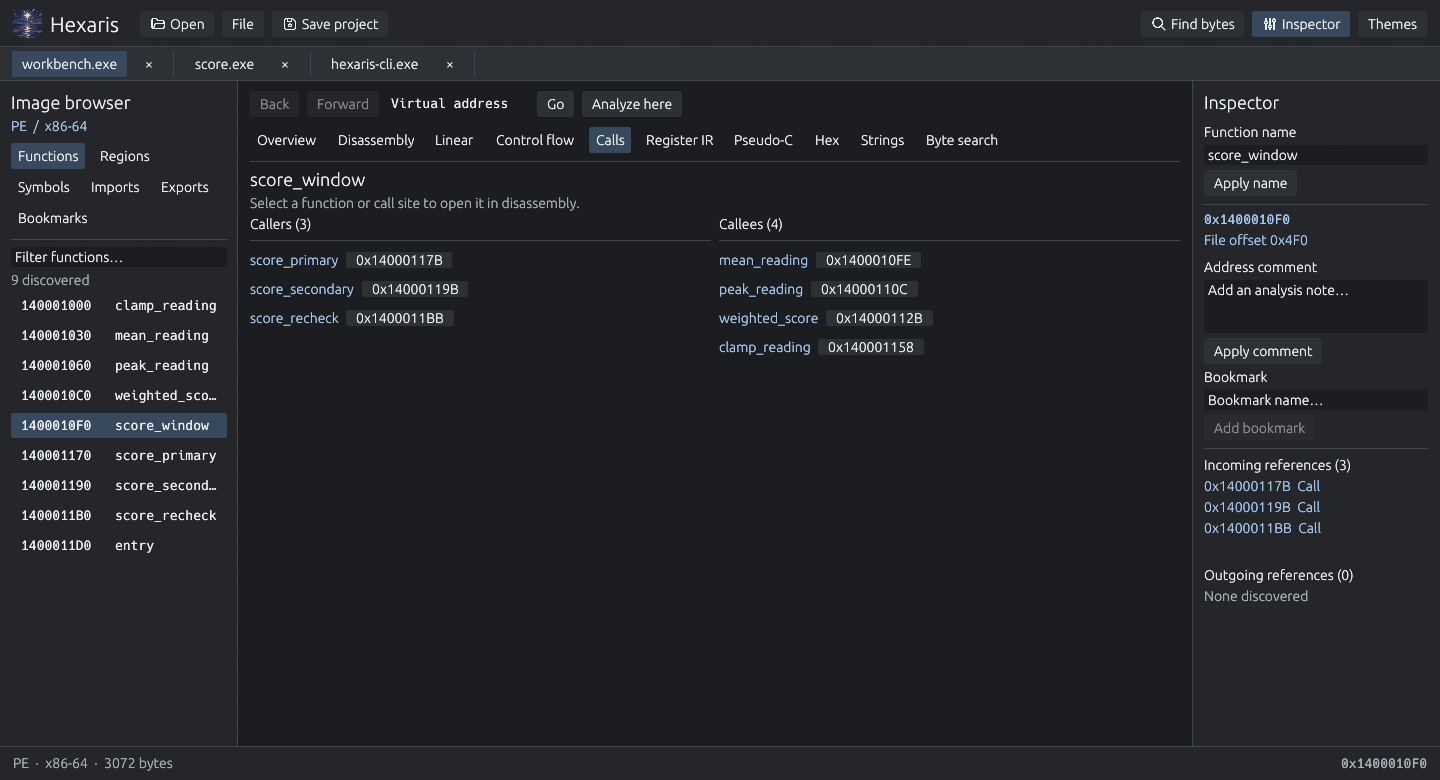
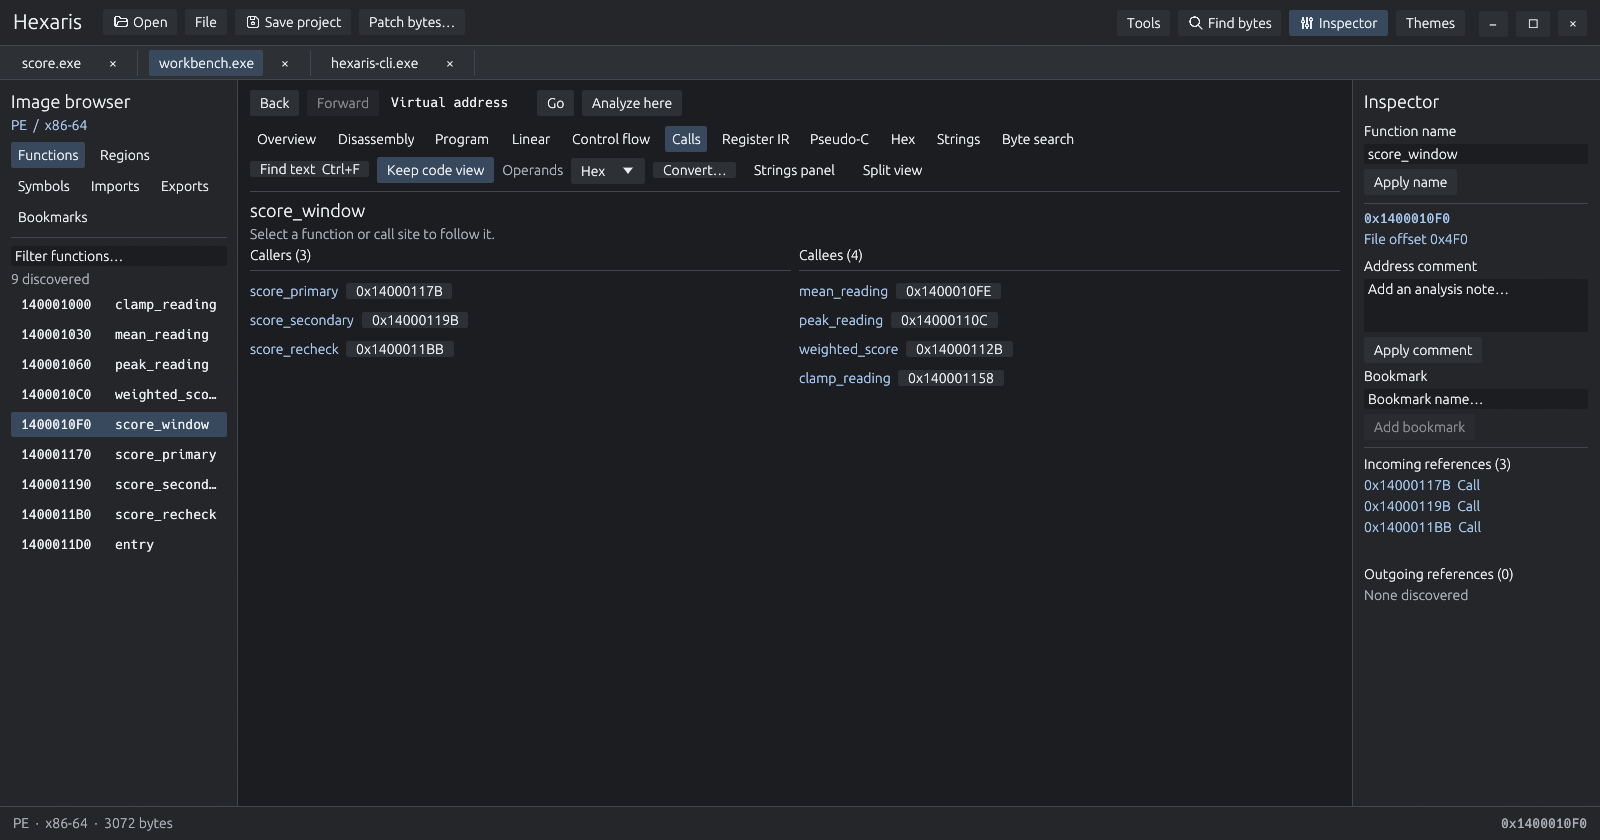
Refresh README screenshots for the split workspace

diff --git a/README.md b/README.md
@@ -21,9 +21,9 @@
 </p>
 
 <p align="center">
-  <img src="docs/images/workbench.png" width="100%" alt="Hexaris in Graphite with multiple binaries open, showing x86-64 disassembly, function navigation, and an address inspector">
+  <a href="docs/images/split-program.png"><img src="docs/images/split-program.png" width="100%" alt="Hexaris showing the Program listing and Pseudo-C side by side with the Strings panel open"></a>
   <br>
-  <sub>The Graphite workbench on a sample executable, with its function list and address inspector open.</sub>
+  <sub>Program and Pseudo-C share the selected address. The Strings panel stays open alongside both.</sub>
 </p>
 
 ## Features
@@ -31,14 +31,26 @@
 <table>
   <tr>
     <td width="50%" valign="top">
-      <a href="docs/images/control-flow.png"><img src="docs/images/control-flow.png" width="100%" alt="A control-flow graph showing the two branches of the score fixture and their common return block"></a>
+      <a href="docs/images/graph-file-strings.png"><img src="docs/images/graph-file-strings.png" width="100%" alt="A control-flow graph with the file's printable strings in the side panel"></a>
       <h3>Follow control flow</h3>
-      Fit the selected function’s full control-flow graph or focus on a block. Follow edges and string references, search in place, and carry highlights between code views.
+      Fit every decoded block or focus on one. Follow branches and browse referenced or file strings alongside the graph.
     </td>
+    <td width="50%" valign="top">
+      <a href="docs/images/program-strings.png"><img src="docs/images/program-strings.png" width="100%" alt="The Program listing showing code from multiple functions and a marked undecoded executable range"></a>
+      <h3>Browse the program</h3>
+      Scroll through decoded code across executable regions, filter by region, and inspect undecoded ranges in Linear.
+    </td>
+  </tr>
+  <tr>
     <td width="50%" valign="top">
       <a href="docs/images/pseudo-c.png"><img src="docs/images/pseudo-c.png" width="100%" alt="Hexaris displaying C-like pseudocode for an unsigned conditional and two arithmetic return paths"></a>
       <h3>Read lifted code</h3>
       Inspect 32-bit register SSA and incoming values at block boundaries. Pseudo-C shows structured expressions where supported and a register-level listing with branches, loops, and calls for other decoded functions.
+    </td>
+    <td width="50%" valign="top">
+      <a href="docs/images/calls.png"><img src="docs/images/calls.png" width="100%" alt="The Calls view listing direct callers, callees, and selectable call-site addresses"></a>
+      <h3>Trace calls and references</h3>
+      Browse direct callers and callees, jump to a call site, and check the inspector for incoming and outgoing references to the selected address.
     </td>
   </tr>
   <tr>
@@ -48,9 +60,9 @@
       Find sections, symbols, imports and exports. Check the file’s SHA-256 or click the entropy chart to open the corresponding byte offset in Hex.
     </td>
     <td width="50%" valign="top">
-      <a href="docs/images/calls.png"><img src="docs/images/calls.png" width="100%" alt="The Calls view listing direct callers, callees, and their selectable call-site addresses"></a>
-      <h3>Trace calls and references</h3>
-      Browse direct callers and callees, jump to a call site, and check the inspector for incoming and outgoing references to the selected address.
+      <a href="docs/images/patch-branch.png"><img src="docs/images/patch-branch.png" width="100%" alt="The Patch bytes window previewing the original and replacement bytes for a conditional branch"></a>
+      <h3>Preview and export patches</h3>
+      Invert a supported branch or queue a byte edit, review the replacement, and open the exported copy for reanalysis.
     </td>
   </tr>
 </table>
@@ -85,7 +97,7 @@ You can also open PowerShell in the extracted folder and launch the app there. P
 Use **File → Open raw image** for unstructured bytes. Press **Ctrl+D** to toggle a bookmark and **Ctrl+S** to save the current project. The release also provides a `.sha256` file for checking the ZIP download.
 
 <p align="center">
-  <img src="docs/images/welcome.png" width="720" alt="Hexaris welcome screen with a painting of a golden star reflected in a lake above the file picker">
+  <img src="docs/images/welcome.png" width="720" alt="Hexaris Open a binary screen with the Braille eye above the file picker">
 </p>
 
 Windows x64 is the validated release platform. The source also targets Linux and macOS. See the [feature matrix](docs/FEATURE_MATRIX.md) for tested coverage, including the current limits of decompilation and architecture support.
